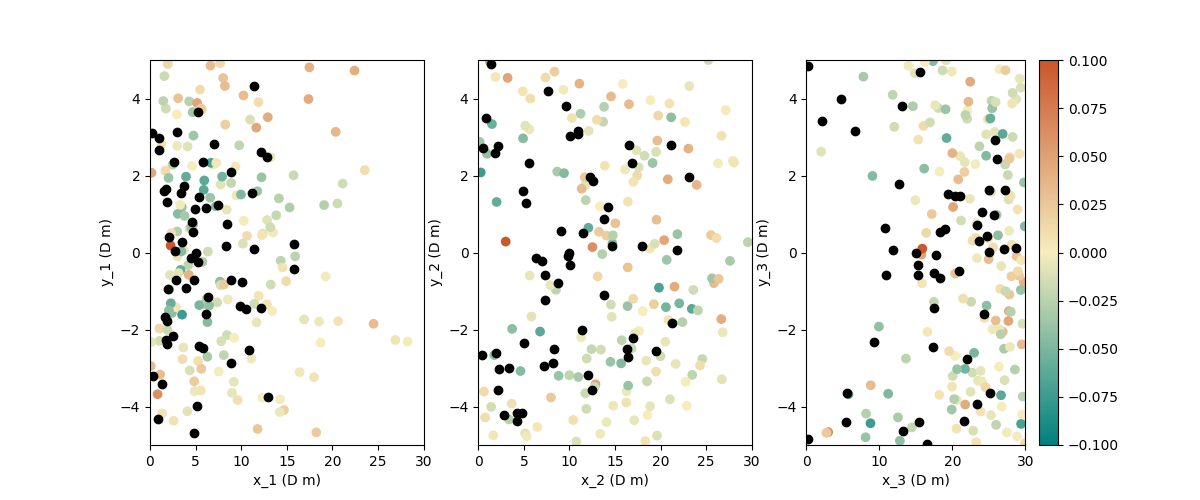
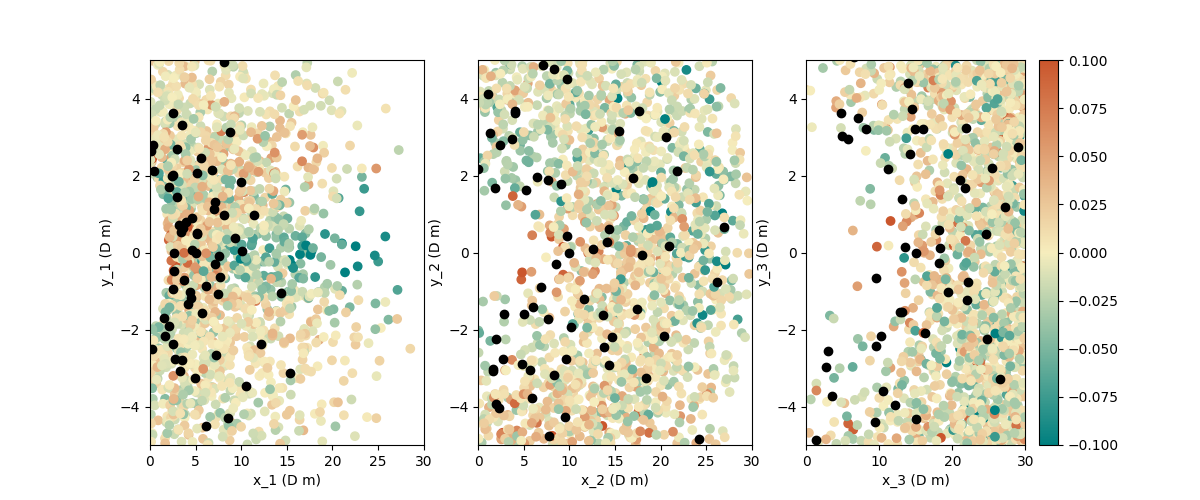
Plot sequential design training curves

diff --git a/analysis/sequential_design_training_curve.py b/analysis/sequential_design_training_curve.py
@@ -1,0 +1,74 @@
+import numpy as np
+import matplotlib.pyplot as plt
+from scipy.stats import norm, expon
+from sklearn.metrics import mean_squared_error, mean_absolute_error
+from palettable.cartocolors.diverging import Geyser_3
+import mogp_emulator
+import sys
+sys.path.append(r'/home/andrewkirby72/phd_work/data_synthesis')
+from sequential_design.experimentaldesign import validLCDesign
+from data_simulator.simulators import simulator6d_halved
+from GP_machine_learning.GP_machine_learning_functions import *
+
+validLHS = validLCDesign()
+n_init = 1
+n_samples = 100
+n_cand = 300
+md = mogp_emulator.MICEDesign(validLHS, simulator6d_halved, n_samples=n_samples, n_init=n_init, n_cand=n_cand)
+
+init_design = md.generate_initial_design()
+X_test, X_test_tran, y_test = create_testing_points_transformed()
+
+x = np.zeros((101,6))
+x[0, :] = init_design
+x[0,0] = expon(scale=10).ppf(x[0, 0])
+x[0,2] = expon(scale=10).ppf(x[0, 2])
+x[0,4] = expon(scale=10).ppf(x[0, 4])
+x[0,1] = norm(0, 2.5).ppf(x[0, 1])
+x[0,3] = norm(0, 2.5).ppf(x[0, 3])
+x[0,5] = norm(0, 2.5).ppf(x[0, 5])
+
+init_target = simulator6d_halved(x[0, :])
+md.set_initial_targets(init_target)
+mae = np.zeros(100)
+rmse = np.zeros(100)
+
+for d in range(n_samples):
+    next_point = md.get_next_point()
+    x[d+1] = next_point
+    x[d+1,0] = expon(scale=10).ppf(x[d+1, 0])
+    x[d+1,2] = expon(scale=10).ppf(x[d+1, 2])
+    x[d+1,4] = expon(scale=10).ppf(x[d+1, 4])
+    x[d+1,1] = norm(0, 2.5).ppf(x[d+1, 1])
+    x[d+1,3] = norm(0, 2.5).ppf(x[d+1, 3])
+    x[d+1,5] = norm(0, 2.5).ppf(x[d+1, 5])
+    next_target = simulator6d_halved(x[d+1,:])
+    print(x[d+1, :])
+    print(next_target)
+    md.set_next_target(next_target)
+
+    X_train = x
+    inputs = md.get_inputs()
+    targets = md.get_targets()
+
+    gp_mice = mogp_emulator.GaussianProcess(inputs, targets)
+    gp_mice = mogp_emulator.fit_GP_MAP(inputs, targets)
+
+    y_predict = gp_mice(X_test_tran)
+    rmse[d] = np.sqrt(mean_squared_error(y_test, y_predict))
+    mae[d] = mean_absolute_error(y_test, y_predict)
+
+
+max_error = np.max(np.abs((y_predict - y_test)))
+
+plt.figure(1)
+plt.scatter(np.arange(2,102,1), mae)
+plt.ylabel('MAE')
+plt.xlabel('Number of training points')
+plt.savefig('analysis/sequential_design_plots/seq_design_mae.png')
+
+plt.figure(2)
+plt.scatter(np.arange(2,102,1), rmse)
+plt.ylabel('RMSE')
+plt.xlabel('Number of training points')
+plt.savefig('analysis/sequential_design_plots/seq_design_rmse.png')

diff --git a/GP_machine_learning/GP_machine_learning_functions.py b/GP_machine_learning/GP_machine_learning_functions.py
@@ -274,7 +274,7 @@ def create_testing_points_transformed():
     y_test:         ndarray of shape(variable,)
                     value of CT* at test points
     """
-    X_test = lhs(6, 1000, 'maximin')
+    X_test = lhs(6, 10000)
     X_test[:, 0] = 30*X_test[:, 0]
     X_test[:, 1] = 10*X_test[:, 1] - 5
     X_test[:, 2] = 30*X_test[:, 2]
